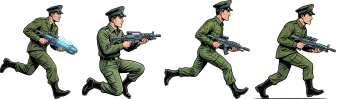
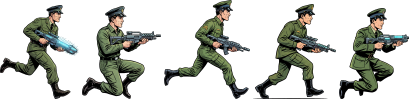
Use the jump render as Dan's airborne frame
Frames are now named by file in make_sprites.py rather than taken in glob
order, so the new jump render joins the sheet as its own pose instead of
reusing the wide stride.

diff --git a/js/game.js b/js/game.js
@@ -608,13 +608,13 @@ function danSprite() {
   return "dan_stand";
 }
 
-/** Which drawn frame shows Dan now. The sheet has four poses - two strides,
- *  a kneel and a firing stride - so the run is a two-frame cycle, the leap is
- *  the wide stride, and firing shows the muzzle flash for a moment. */
+/** Which drawn frame shows Dan now. The sheet has five poses - two strides,
+ *  a kneel, a jump and a firing stride - so the run is a two-frame cycle and
+ *  firing shows the muzzle flash for a moment. */
 function danFrame() {
   if (dan.kneeling) return "kneel";
   if (dan.fireCool > 0.16 && dan.onGround) return "fire";
-  if (!dan.onGround && !dan.onLift) return "run1";
+  if (!dan.onGround && !dan.onLift) return "jump";
   if (Math.abs(dan.vx) > 1 && dan.onGround) return Math.floor(dan.anim) % 2 ? "run1" : "run2";
   return "run2";
 }

diff --git a/js/dan_sheet.js b/js/dan_sheet.js
@@ -1,2 +1,2 @@
 // generated by tools/make_sprites.py
-window.DAN_SHEET = {"image": "assets/dan.png", "scale": 3, "frames": {"fire": {"x": 0, "y": 5, "w": 79, "h": 94, "cx": 16.9}, "kneel": {"x": 82, "y": 6, "w": 79, "h": 93, "cx": 11.3}, "run1": {"x": 164, "y": 0, "w": 86, "h": 99, "cx": 19.5}, "run2": {"x": 253, "y": 4, "w": 83, "h": 95, "cx": 17.0}}};
+window.DAN_SHEET = {"image": "assets/dan.png", "scale": 3, "frames": {"fire": {"x": 0, "y": 5, "w": 79, "h": 94, "cx": 16.9}, "kneel": {"x": 82, "y": 6, "w": 79, "h": 93, "cx": 11.3}, "run1": {"x": 164, "y": 0, "w": 86, "h": 99, "cx": 19.5}, "run2": {"x": 253, "y": 4, "w": 83, "h": 95, "cx": 17.0}, "jump": {"x": 339, "y": 8, "w": 70, "h": 91, "cx": 12.6}}};

diff --git a/tools/make_sprites.py b/tools/make_sprites.py
@@ -1,5 +1,5 @@
 #!/usr/bin/env python3
-"""Build assets/dan.png from the four Dan renders in the repository root.
+"""Build assets/dan.png from the Dan renders in the repository root.
 
 Each render is one pose on a fake checkerboard, with a caption and a panel
 border. The checkerboard is recognised by its two grey levels, captions and
@@ -11,7 +11,6 @@ hit box can be centred on him rather than on the rifle.
 
 Usage: python3 tools/make_sprites.py
 """
-import glob
 import json
 
 import cv2
@@ -20,8 +19,12 @@ from PIL import Image
 
 SCALE = 3            # canvas pixels per screen pixel
 RUN_H = 33           # a running frame, in screen pixels (hit box is 32)
-FRAMES = {           # sheet name -> which render
-    "fire": 0, "kneel": 1, "run1": 2, "run2": 3,
+FRAMES = {           # sheet name -> render in the repository root
+    "fire": "VeniceAI_2KHeIZa68KmmRm_0.png",
+    "kneel": "VeniceAI_2KHeIZa68KmmRm_1.png",
+    "run1": "VeniceAI_2KHeIZa68KmmRm_2.png",
+    "run2": "VeniceAI_2KHeIZa68KmmRm_3.png",
+    "jump": "VeniceAI_WPP_sYd1siUeoh_1.png",
 }
 
 
@@ -79,15 +82,14 @@ def shrink(rgb, a, scale):
 
 
 def main():
-    files = sorted(glob.glob("VeniceAI_*.png"))
-    cuts = [cut(f) for f in files]
-    ref_h = cuts[FRAMES["run1"]][1].shape[0]
+    cuts = {name: cut(f) for name, f in FRAMES.items()}
+    ref_h = cuts["run1"][1].shape[0]
     scale = RUN_H * SCALE / ref_h
 
     frames, x = {}, 0
     tiles = []
-    for name, idx in FRAMES.items():
-        rgb, a = cuts[idx]
+    for name in FRAMES:
+        rgb, a = cuts[name]
         tile = shrink(rgb, a, scale)
         th, tw = tile.shape[:2]
         # body centre: where the head is, from the top fifth of the figure

diff --git a/README.md b/README.md
@@ -83,17 +83,18 @@ silently inflated its own reachability figure.
 
 ## Sprites
 
-Dan is drawn from illustrations: the four renders in the repository root
-(two running strides, a kneel and a firing stride, all in profile).
+Dan is drawn from illustrations: the renders in the repository root (two
+running strides, a kneel, a jump and a firing stride, all in profile; the
+left-facing set is not used, since the game mirrors the frames itself).
 `tools/make_sprites.py` cuts each figure off its checkerboard, scales the set
 so a running Dan is 33 cells tall, packs them into `assets/dan.png` at the
 canvas's 3x scale, and writes `js/dan_sheet.js` with each frame's position and
 where Dan's body sits within it, so the hit box is centred on him rather than
 on the rifle. The game draws the frames 1:1, so they keep their line work.
 
-Four poses make a two-frame run cycle, a kneel, a leap (the wide stride) and
-a muzzle flash while firing; there is no standing pose, so a still Dan holds
-the narrower stride. The Treens, the seated figure in the self-destruct room
+Five poses make a two-frame run cycle, a kneel, a jump and a muzzle flash
+while firing; there is no standing pose, so a still Dan holds the narrower
+stride. The Treens, the seated figure in the self-destruct room
 and the pickups are still the project's own single-colour bitmaps in
 `js/sprites.js`.
 
